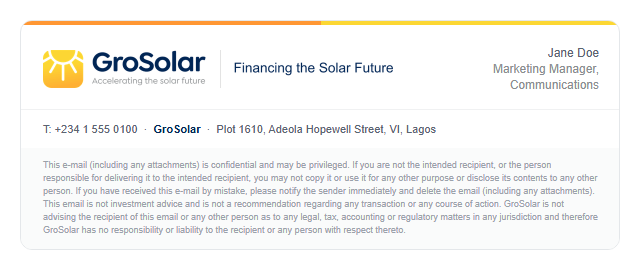
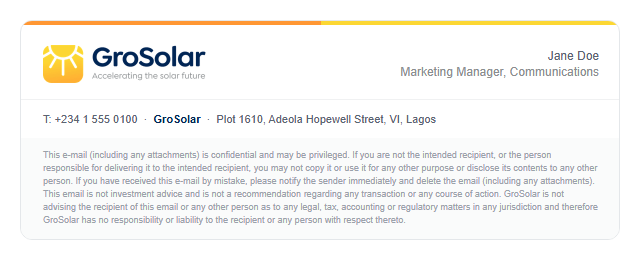
Remove FundCo/GroSolar taglines, prevent signature stacking on replies
Cropped "Capital for Africa's Energy Transition" out of FundCo's logo image
and "Financing the Solar Future" out of GroSolar's -- both were baked into
the banner PNGs rather than separate HTML text, so the fix is a re-crop of
the exported logo lockup plus matching width attributes in the templates.

Added ExceptIfBodyContainsWords (keyed on a sentence identical across all
10 footers) to every rule in deploy-signatures.ps1. Without it, Exchange
re-appends the full HTML footer on every reply in a thread, and since a
reply quotes the prior message (footer included) further down the body, a
few replies back and forth end up with several signature blocks stacked on
top of each other. The exception makes a message only get a footer if it
doesn't already contain one further down -- once per thread, not per reply.

diff --git a/templates/grosolar-ng-footer.html b/templates/grosolar-ng-footer.html
@@ -1,5 +1,5 @@
 <!-- FTR-GROSOLAR-NG-V2 -->
-<!-- NOTE: real confirmed domain is grosolar.co (the live site itself is still pre-launch, but the domain is confirmed as of 2026-11-18) -- this footer's own filename/slug still says "-ng" for historical reasons, but the Exchange transport rule in deploy-signatures.ps1 correctly filters on grosolar.co. Tagline "Financing the Solar Future" was user-directed (2026-09-15), not invented. -->
+<!-- NOTE: real confirmed domain is grosolar.co (the live site itself is still pre-launch, but the domain is confirmed as of 2026-11-18) -- this footer's own filename/slug still says "-ng" for historical reasons, but the Exchange transport rule in deploy-signatures.ps1 correctly filters on grosolar.co. The "Financing the Solar Future" tagline (user-directed 2026-09-15) was removed from the banner crop per later user request (2026-11-19); the logo now ends after "Accelerating the solar future". -->
 <!-- Font fallback policy: GroSolar is pre-launch with no established brand font -- using a clean, neutral system sans (Arial, Helvetica, sans-serif) rather than inventing a brand-matching fallback. -->
 <!-- Company address: static line uses the FundCo group HQ "Plot 1610, Adeola Hopewell Street, VI, Lagos" (GroSolar is Nigeria/Lagos-based per its parent group, no independent site content to contradict this). No %%StreetAddress%% AD token is used -- most signers' AD profile has this set to the same office address, which was rendering it twice. -->
 <!-- V2 redesign: rounded card (MSO v:roundrect / CSS border-radius fallback) with a two-stripe
@@ -23,8 +23,8 @@
     <td colspan="2" style="padding:20px 22px 16px 22px;">
       <table role="presentation" width="100%" cellpadding="0" cellspacing="0" border="0">
         <tr>
-          <td width="350" valign="middle">
-            <img src="https://raw.githubusercontent.com/FundCo-Capital-Managers-Limited/email-signatures/main/export/grosolar-ng-logo-signature@2x.png" width="350" height="38" alt="GroSolar" style="display:block;border:0;outline:none;width:350px;height:38px;">
+          <td width="190" valign="middle">
+            <img src="https://raw.githubusercontent.com/FundCo-Capital-Managers-Limited/email-signatures/main/export/grosolar-ng-logo-signature@2x.png" width="165" height="38" alt="GroSolar" style="display:block;border:0;outline:none;width:165px;height:38px;">
           </td>
           <td width="20" style="font-size:0;line-height:0;">&nbsp;</td>
           <td valign="middle" style="font-family:Arial,Helvetica,sans-serif;font-size:12px;line-height:16px;color:#5a6472;text-align:right;">

diff --git a/templates/fundco-ng-footer.html b/templates/fundco-ng-footer.html
@@ -4,7 +4,9 @@
 <!-- V2 redesign: rounded card (MSO v:roundrect / CSS border-radius fallback), compact trimmed
      logo lockup in its own left column instead of a full-width banner, a vertical navy rule
      separating logo from contact block, and a small rounded "chip" for the job title for a
-     more premium, considered feel than the plain full-width-banner V1. -->
+     more premium, considered feel than the plain full-width-banner V1. The "Capital for
+     Africa's Energy Transition" tagline (baked into the original banner image) was cropped
+     out per user request (2026-11-19); the logo now ends after "CAPITAL MANAGERS". -->
 <!--[if mso]>
 <v:roundrect xmlns:v="urn:schemas-microsoft-com:vml" xmlns:w="urn:schemas-microsoft-com:office:word" style="width:600px;v-text-anchor:top;" arcsize="6%" strokecolor="#d7dee5" strokeweight="1pt" fillcolor="#ffffff">
 <v:textbox inset="0,0,0,0">
@@ -21,8 +23,8 @@
     <td style="padding:20px 20px 18px 0;">
       <table role="presentation" width="100%" cellpadding="0" cellspacing="0" border="0">
         <tr>
-          <td width="308" valign="middle">
-            <img src="https://raw.githubusercontent.com/FundCo-Capital-Managers-Limited/email-signatures/main/export/fundco-ng-logo-signature@2x.png" width="308" height="50" alt="FundCo Capital Managers" style="display:block;border:0;outline:none;width:308px;height:50px;">
+          <td width="190" valign="middle">
+            <img src="https://raw.githubusercontent.com/FundCo-Capital-Managers-Limited/email-signatures/main/export/fundco-ng-logo-signature@2x.png" width="173" height="50" alt="FundCo Capital Managers" style="display:block;border:0;outline:none;width:173px;height:50px;">
           </td>
           <td width="1" bgcolor="#dde4ea" style="background-color:#dde4ea;font-size:0;line-height:0;">&nbsp;</td>
           <td width="20" style="font-size:0;line-height:0;">&nbsp;</td>

diff --git a/README.md b/README.md
@@ -20,7 +20,7 @@ deploy-signatures.ps1   Exchange Online transport-rule deployment script
 
 | Company | Template | Domain | Font fallback stack | Size (chars) |
 |---|---|---|---|---|
-| FundCo Capital Managers | `fundco-ng-footer.html` | fundco.ng | `'Segoe UI', Arial, Helvetica, sans-serif` (site font Montserrat, geometric) | 5,657 |
+| FundCo Capital Managers | `fundco-ng-footer.html` | fundco.ng | `'Segoe UI', Arial, Helvetica, sans-serif` (site font Montserrat, geometric) | 5,850 |
 | OneCap Investment Limited | `onecapinvestment-ng-footer.html` | onecapinvestment.ng | `Arial, Helvetica, sans-serif` (site font Inter, grotesque/neutral) | 3,473 |
 | Agronomie | `agronomie-ng-footer.html` | agronomie.ng | `'Segoe UI', Arial, Helvetica, sans-serif` (site font Poppins, geometric) | 3,281 |
 | Electrify Microgrid Limited | `electrifymicrogrid-ng-footer.html` | electrifymicrogrid.ng | `'Segoe UI', Arial, Helvetica, sans-serif` (site font Poppins, geometric) | 4,038 |
@@ -29,7 +29,7 @@ deploy-signatures.ps1   Exchange Online transport-rule deployment script
 | Clean Energy Local Currency Fund | `cleanenergyfund-ng-footer.html` | cleanenergyfund.ng | heading `'Segoe UI', Arial, Helvetica, sans-serif` (Montserrat) / body `Arial, Helvetica, sans-serif` (Open Sans) | 3,512 |
 | MeshWorks Solar Limited | `meshworks-ng-footer.html` | meshworks.ng | `'Segoe UI', Arial, Helvetica, sans-serif` (site font Geist, geometric) | 4,022 |
 | GreenKiosk | `greenkiosk-ng-footer.html` | greenkiosk.ng | `'Segoe UI', Arial, Helvetica, sans-serif` (site font Geist, geometric) | 3,815 |
-| GroSolar **(pre-launch, domain confirmed)** | `grosolar-ng-footer.html` | grosolar.co | `Arial, Helvetica, sans-serif` (no brand font established yet, deliberately neutral) | 4,825 |
+| GroSolar **(pre-launch, domain confirmed)** | `grosolar-ng-footer.html` | grosolar.co | `Arial, Helvetica, sans-serif` (no brand font established yet, deliberately neutral) | 4,937 |
 
 All 10 are well under the spec's ~8,000-character ceiling (checked via `wc -c`, matches
 the spec's `(Get-Content file -Raw).Length` check).
@@ -86,6 +86,15 @@ Notes:
   sender only ever picks up their own company's footer. FundCo's own rule has no
   domain filter and sits last, acting as the catch-all for fundco.ng senders and
   anyone not matched by an earlier rule.
+- **Signatures don't stack on replies.** Every rule has an `ExceptIfBodyContainsWords`
+  condition keyed on a sentence identical across all 10 footers ("This e-mail
+  (including any attachments) is confidential and may be privileged"). Without this,
+  Exchange re-appends the full HTML footer on every single send, and since a reply
+  quotes the prior message (footer included) further down the body, a few replies
+  back and forth end up with several signature blocks jammed on top of each other.
+  With the exception in place, a message only gets a footer appended if it doesn't
+  already contain one further down in the body - i.e. once per thread, on the first
+  message, not on every reply.
 - GroSolar is deployed under its confirmed domain, `grosolar.co` — the site itself
   is still pre-launch, but the domain is confirmed, so its transport rule is live
   like every other company's.
